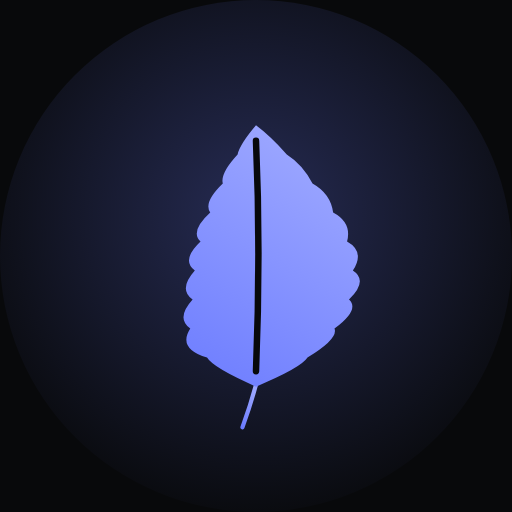
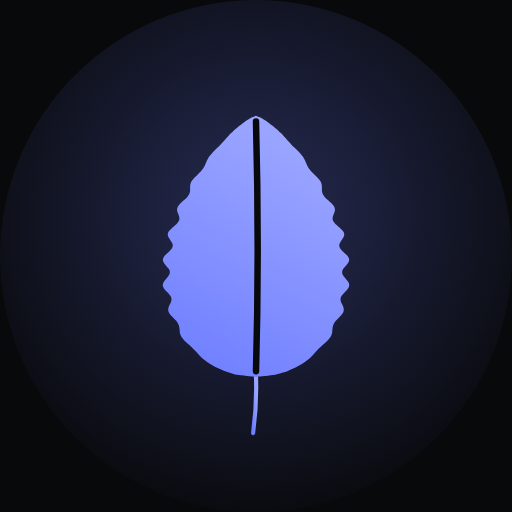
Новая форма листа: считается формулой, а не набрана руками
Прежний контур собирался из отрезков, и край выходил ступенчатым — в
мелком размере лист выглядел обгрызенным, а девять прожилок сливались
в тёмное пятно. Форма взята с натурного листа: широкая нижняя треть,
острый кончик, волнистый край, четыре пары дуговых жилок.

Контур теперь считает scripts/make-leaf.mjs: полуширина вдоль оси плюс
фестоны, гаснущие у кончика и у черешка, и уже по этим точкам гладкая
кривая. Форму правят числами — шире, острее, крупнее зубцы, — а не
перестановкой сотни координат.

Тот же лист подставлен в аватарку бота: знак снаружи обязан совпадать с
тем, что человек видит внутри.

Claude-Session: https://claude.ai/code/session_012dgtbmCBimMGEXv6Efga8R

diff --git a/src/App.tsx b/src/App.tsx
@@ -1862,17 +1862,23 @@ const LEAF_KINDS = [
     ],
   },
   // мята
+  // мята — форма с натурного листа: широкая нижняя треть, острый кончик
+  // и волнистый край. Контур считается формулой (scripts/make-leaf.mjs),
+  // а не набран руками: прежний собирался из отрезков и в мелком размере
+  // выглядел обгрызенным.
   {
-    outline: "M 0.00 -0.00 Q 4.67 -1.95 5.32 -3.00 Q 8.54 -4.95 8.11 -6.00 Q 10.76 -7.95 9.61 -9.00 Q 11.63 -10.95 10.01 -12.00 Q 11.29 -13.95 9.41 -15.00 Q 9.93 -16.95 7.97 -18.00 Q 7.71 -19.95 5.84 -21.00 Q 4.83 -22.95 3.18 -24.00 Q 1.42 -25.95 0.00 -27.00 Q -1.66 -25.05 -1.90 -24.00 Q -3.71 -22.05 -3.43 -21.00 Q -5.46 -19.05 -4.73 -18.00 Q -6.86 -16.05 -5.73 -15.00 Q -7.78 -13.05 -6.32 -12.00 Q -8.06 -10.05 -6.37 -9.00 Q -7.51 -7.05 -5.70 -6.00 Q -5.88 -4.05 -4.04 -3.00 Q -2.57 -1.05 0.00 -0.00 Z",
-    stem: "M 0 0 Q -0.6 2.0 -1.4 4.2",
+    outline: "M 0.00 -1.00 C 0.33 -1.04, 1.52 -1.15, 1.98 -1.23 C 2.45 -1.30, 2.55 -1.38, 2.79 -1.45 C 3.02 -1.52, 3.21 -1.60, 3.39 -1.68 C 3.58 -1.75, 3.75 -1.82, 3.91 -1.90 C 4.06 -1.97, 4.21 -2.05, 4.35 -2.13 C 4.49 -2.20, 4.62 -2.27, 4.74 -2.35 C 4.87 -2.43, 4.98 -2.50, 5.09 -2.58 C 5.20 -2.65, 5.29 -2.72, 5.39 -2.80 C 5.48 -2.88, 5.56 -2.95, 5.64 -3.02 C 5.72 -3.10, 5.80 -3.17, 5.87 -3.25 C 5.94 -3.33, 6.00 -3.40, 6.07 -3.47 C 6.14 -3.55, 6.21 -3.63, 6.28 -3.70 C 6.35 -3.78, 6.42 -3.85, 6.50 -3.93 C 6.57 -4.00, 6.65 -4.08, 6.73 -4.15 C 6.81 -4.23, 6.89 -4.30, 6.98 -4.38 C 7.06 -4.45, 7.14 -4.52, 7.22 -4.60 C 7.30 -4.67, 7.38 -4.75, 7.45 -4.82 C 7.52 -4.90, 7.58 -4.97, 7.64 -5.05 C 7.69 -5.13, 7.73 -5.20, 7.77 -5.27 C 7.80 -5.35, 7.83 -5.42, 7.85 -5.50 C 7.87 -5.58, 7.88 -5.65, 7.88 -5.72 C 7.89 -5.80, 7.89 -5.87, 7.90 -5.95 C 7.91 -6.02, 7.91 -6.10, 7.93 -6.18 C 7.95 -6.25, 7.97 -6.33, 8.00 -6.40 C 8.03 -6.48, 8.07 -6.55, 8.12 -6.63 C 8.17 -6.70, 8.23 -6.78, 8.30 -6.85 C 8.37 -6.93, 8.44 -7.00, 8.51 -7.08 C 8.59 -7.15, 8.67 -7.22, 8.73 -7.30 C 8.80 -7.38, 8.87 -7.45, 8.92 -7.53 C 8.97 -7.60, 9.01 -7.67, 9.04 -7.75 C 9.06 -7.83, 9.07 -7.90, 9.07 -7.98 C 9.07 -8.05, 9.05 -8.13, 9.03 -8.20 C 9.01 -8.27, 8.97 -8.35, 8.94 -8.43 C 8.90 -8.50, 8.86 -8.57, 8.83 -8.65 C 8.80 -8.72, 8.77 -8.80, 8.75 -8.88 C 8.74 -8.95, 8.73 -9.02, 8.74 -9.10 C 8.76 -9.18, 8.78 -9.25, 8.82 -9.33 C 8.86 -9.40, 8.92 -9.47, 8.98 -9.55 C 9.04 -9.62, 9.12 -9.70, 9.19 -9.78 C 9.26 -9.85, 9.33 -9.93, 9.40 -10.00 C 9.46 -10.07, 9.52 -10.15, 9.56 -10.22 C 9.60 -10.30, 9.63 -10.38, 9.63 -10.45 C 9.64 -10.52, 9.63 -10.60, 9.60 -10.68 C 9.58 -10.75, 9.53 -10.82, 9.48 -10.90 C 9.43 -10.97, 9.36 -11.05, 9.29 -11.13 C 9.23 -11.20, 9.16 -11.28, 9.10 -11.35 C 9.05 -11.43, 8.99 -11.50, 8.96 -11.57 C 8.92 -11.65, 8.90 -11.73, 8.90 -11.80 C 8.90 -11.88, 8.91 -11.95, 8.94 -12.03 C 8.97 -12.10, 9.03 -12.18, 9.08 -12.25 C 9.14 -12.32, 9.21 -12.40, 9.27 -12.47 C 9.33 -12.55, 9.41 -12.63, 9.46 -12.70 C 9.51 -12.78, 9.56 -12.85, 9.59 -12.92 C 9.62 -13.00, 9.63 -13.07, 9.62 -13.15 C 9.62 -13.23, 9.59 -13.30, 9.54 -13.38 C 9.50 -13.45, 9.44 -13.53, 9.37 -13.60 C 9.30 -13.67, 9.21 -13.75, 9.13 -13.82 C 9.05 -13.90, 8.96 -13.98, 8.89 -14.05 C 8.82 -14.13, 8.75 -14.20, 8.70 -14.27 C 8.66 -14.35, 8.62 -14.43, 8.61 -14.50 C 8.60 -14.57, 8.60 -14.65, 8.62 -14.72 C 8.64 -14.80, 8.68 -14.88, 8.73 -14.95 C 8.77 -15.03, 8.83 -15.10, 8.88 -15.18 C 8.93 -15.25, 8.98 -15.33, 9.02 -15.40 C 9.06 -15.47, 9.10 -15.55, 9.11 -15.62 C 9.12 -15.70, 9.12 -15.78, 9.10 -15.85 C 9.08 -15.93, 9.04 -16.00, 8.98 -16.08 C 8.93 -16.15, 8.85 -16.22, 8.78 -16.30 C 8.70 -16.37, 8.60 -16.45, 8.52 -16.52 C 8.43 -16.60, 8.34 -16.68, 8.26 -16.75 C 8.19 -16.82, 8.12 -16.90, 8.06 -16.98 C 8.01 -17.05, 7.97 -17.13, 7.94 -17.20 C 7.92 -17.27, 7.91 -17.35, 7.92 -17.42 C 7.92 -17.50, 7.94 -17.58, 7.97 -17.65 C 7.99 -17.73, 8.03 -17.80, 8.06 -17.88 C 8.08 -17.95, 8.12 -18.02, 8.13 -18.10 C 8.15 -18.17, 8.16 -18.25, 8.16 -18.33 C 8.15 -18.40, 8.13 -18.48, 8.10 -18.55 C 8.07 -18.63, 8.02 -18.70, 7.95 -18.77 C 7.89 -18.85, 7.82 -18.93, 7.74 -19.00 C 7.66 -19.07, 7.57 -19.15, 7.49 -19.23 C 7.40 -19.30, 7.32 -19.38, 7.24 -19.45 C 7.17 -19.52, 7.09 -19.60, 7.04 -19.68 C 6.98 -19.75, 6.93 -19.82, 6.90 -19.90 C 6.86 -19.97, 6.84 -20.05, 6.83 -20.13 C 6.81 -20.20, 6.81 -20.28, 6.81 -20.35 C 6.81 -20.43, 6.81 -20.50, 6.81 -20.57 C 6.81 -20.65, 6.81 -20.72, 6.80 -20.80 C 6.79 -20.87, 6.78 -20.95, 6.75 -21.03 C 6.73 -21.10, 6.69 -21.18, 6.64 -21.25 C 6.60 -21.32, 6.54 -21.40, 6.47 -21.47 C 6.41 -21.55, 6.33 -21.63, 6.26 -21.70 C 6.18 -21.78, 6.10 -21.85, 6.02 -21.93 C 5.94 -22.00, 5.86 -22.07, 5.79 -22.15 C 5.72 -22.22, 5.65 -22.30, 5.59 -22.38 C 5.53 -22.45, 5.47 -22.53, 5.43 -22.60 C 5.38 -22.68, 5.34 -22.75, 5.30 -22.82 C 5.26 -22.90, 5.23 -22.98, 5.20 -23.05 C 5.17 -23.13, 5.14 -23.20, 5.11 -23.27 C 5.07 -23.35, 5.04 -23.43, 5.00 -23.50 C 4.96 -23.57, 4.92 -23.65, 4.87 -23.73 C 4.82 -23.80, 4.76 -23.88, 4.70 -23.95 C 4.64 -24.02, 4.57 -24.10, 4.50 -24.17 C 4.43 -24.25, 4.35 -24.33, 4.28 -24.40 C 4.20 -24.48, 4.12 -24.55, 4.05 -24.63 C 3.97 -24.70, 3.89 -24.77, 3.82 -24.85 C 3.74 -24.92, 3.67 -25.00, 3.60 -25.08 C 3.53 -25.15, 3.46 -25.23, 3.39 -25.30 C 3.33 -25.38, 3.26 -25.45, 3.20 -25.52 C 3.13 -25.60, 3.07 -25.68, 3.00 -25.75 C 2.93 -25.82, 2.86 -25.90, 2.79 -25.98 C 2.72 -26.05, 2.65 -26.13, 2.57 -26.20 C 2.50 -26.27, 2.42 -26.35, 2.34 -26.43 C 2.25 -26.50, 2.17 -26.57, 2.08 -26.65 C 1.99 -26.72, 1.90 -26.80, 1.81 -26.88 C 1.72 -26.95, 1.62 -27.03, 1.52 -27.10 C 1.42 -27.18, 1.32 -27.25, 1.22 -27.32 C 1.11 -27.40, 1.01 -27.47, 0.89 -27.55 C 0.77 -27.62, 0.67 -27.70, 0.52 -27.78 C 0.37 -27.85, 0.09 -27.96, 0.00 -28.00 C -0.09 -28.04, 0.09 -28.04, 0.00 -28.00 C -0.09 -27.96, -0.37 -27.85, -0.52 -27.78 C -0.67 -27.70, -0.77 -27.62, -0.89 -27.55 C -1.01 -27.47, -1.11 -27.40, -1.22 -27.32 C -1.32 -27.25, -1.42 -27.18, -1.52 -27.10 C -1.62 -27.03, -1.72 -26.95, -1.81 -26.88 C -1.90 -26.80, -1.99 -26.72, -2.08 -26.65 C -2.17 -26.57, -2.25 -26.50, -2.34 -26.43 C -2.42 -26.35, -2.50 -26.27, -2.57 -26.20 C -2.65 -26.13, -2.72 -26.05, -2.79 -25.98 C -2.86 -25.90, -2.93 -25.82, -3.00 -25.75 C -3.07 -25.68, -3.13 -25.60, -3.20 -25.52 C -3.26 -25.45, -3.33 -25.38, -3.39 -25.30 C -3.46 -25.23, -3.53 -25.15, -3.60 -25.07 C -3.67 -25.00, -3.74 -24.92, -3.82 -24.85 C -3.89 -24.77, -3.97 -24.70, -4.05 -24.63 C -4.12 -24.55, -4.20 -24.48, -4.28 -24.40 C -4.35 -24.33, -4.43 -24.25, -4.50 -24.18 C -4.57 -24.10, -4.64 -24.02, -4.70 -23.95 C -4.76 -23.88, -4.82 -23.80, -4.87 -23.73 C -4.92 -23.65, -4.96 -23.57, -5.00 -23.50 C -5.04 -23.43, -5.07 -23.35, -5.11 -23.27 C -5.14 -23.20, -5.17 -23.13, -5.20 -23.05 C -5.23 -22.98, -5.26 -22.90, -5.30 -22.82 C -5.34 -22.75, -5.38 -22.68, -5.43 -22.60 C -5.47 -22.53, -5.53 -22.45, -5.59 -22.38 C -5.65 -22.30, -5.72 -22.22, -5.79 -22.15 C -5.86 -22.07, -5.94 -22.00, -6.02 -21.93 C -6.10 -21.85, -6.18 -21.77, -6.26 -21.70 C -6.33 -21.63, -6.41 -21.55, -6.47 -21.47 C -6.54 -21.40, -6.60 -21.32, -6.64 -21.25 C -6.69 -21.18, -6.73 -21.10, -6.75 -21.03 C -6.78 -20.95, -6.79 -20.88, -6.80 -20.80 C -6.81 -20.73, -6.81 -20.65, -6.81 -20.57 C -6.81 -20.50, -6.81 -20.43, -6.81 -20.35 C -6.81 -20.28, -6.81 -20.20, -6.83 -20.12 C -6.84 -20.05, -6.86 -19.97, -6.90 -19.90 C -6.93 -19.82, -6.98 -19.75, -7.04 -19.68 C -7.09 -19.60, -7.17 -19.52, -7.24 -19.45 C -7.32 -19.38, -7.40 -19.30, -7.49 -19.23 C -7.57 -19.15, -7.66 -19.08, -7.74 -19.00 C -7.82 -18.93, -7.89 -18.85, -7.95 -18.77 C -8.02 -18.70, -8.07 -18.63, -8.10 -18.55 C -8.13 -18.48, -8.15 -18.40, -8.16 -18.32 C -8.16 -18.25, -8.15 -18.17, -8.13 -18.10 C -8.12 -18.02, -8.08 -17.95, -8.06 -17.88 C -8.03 -17.80, -7.99 -17.73, -7.97 -17.65 C -7.94 -17.58, -7.92 -17.50, -7.92 -17.43 C -7.91 -17.35, -7.92 -17.27, -7.94 -17.20 C -7.97 -17.13, -8.01 -17.05, -8.06 -16.98 C -8.12 -16.90, -8.19 -16.82, -8.26 -16.75 C -8.34 -16.68, -8.43 -16.60, -8.52 -16.52 C -8.60 -16.45, -8.70 -16.37, -8.78 -16.30 C -8.85 -16.22, -8.93 -16.15, -8.98 -16.08 C -9.04 -16.00, -9.08 -15.93, -9.10 -15.85 C -9.12 -15.78, -9.12 -15.70, -9.11 -15.63 C -9.10 -15.55, -9.06 -15.48, -9.02 -15.40 C -8.98 -15.32, -8.93 -15.25, -8.88 -15.18 C -8.83 -15.10, -8.77 -15.02, -8.73 -14.95 C -8.68 -14.88, -8.64 -14.80, -8.62 -14.72 C -8.60 -14.65, -8.60 -14.57, -8.61 -14.50 C -8.62 -14.43, -8.66 -14.35, -8.70 -14.28 C -8.75 -14.20, -8.82 -14.13, -8.89 -14.05 C -8.96 -13.97, -9.05 -13.90, -9.13 -13.82 C -9.21 -13.75, -9.30 -13.67, -9.37 -13.60 C -9.44 -13.53, -9.50 -13.45, -9.54 -13.38 C -9.59 -13.30, -9.62 -13.22, -9.62 -13.15 C -9.63 -13.07, -9.62 -13.00, -9.59 -12.92 C -9.56 -12.85, -9.51 -12.78, -9.46 -12.70 C -9.41 -12.63, -9.33 -12.55, -9.27 -12.48 C -9.21 -12.40, -9.14 -12.32, -9.08 -12.25 C -9.03 -12.17, -8.97 -12.10, -8.94 -12.03 C -8.91 -11.95, -8.90 -11.88, -8.90 -11.80 C -8.90 -11.73, -8.92 -11.65, -8.96 -11.58 C -8.99 -11.50, -9.05 -11.43, -9.10 -11.35 C -9.16 -11.27, -9.23 -11.20, -9.29 -11.13 C -9.36 -11.05, -9.43 -10.98, -9.48 -10.90 C -9.53 -10.82, -9.58 -10.75, -9.60 -10.67 C -9.63 -10.60, -9.64 -10.52, -9.63 -10.45 C -9.63 -10.38, -9.60 -10.30, -9.56 -10.22 C -9.52 -10.15, -9.46 -10.08, -9.40 -10.00 C -9.33 -9.93, -9.26 -9.85, -9.19 -9.77 C -9.12 -9.70, -9.04 -9.62, -8.98 -9.55 C -8.92 -9.47, -8.86 -9.40, -8.82 -9.33 C -8.78 -9.25, -8.76 -9.18, -8.74 -9.10 C -8.73 -9.03, -8.74 -8.95, -8.75 -8.88 C -8.77 -8.80, -8.80 -8.72, -8.83 -8.65 C -8.86 -8.57, -8.90 -8.50, -8.94 -8.43 C -8.97 -8.35, -9.01 -8.28, -9.03 -8.20 C -9.05 -8.13, -9.07 -8.05, -9.07 -7.97 C -9.07 -7.90, -9.06 -7.83, -9.04 -7.75 C -9.01 -7.67, -8.97 -7.60, -8.92 -7.53 C -8.87 -7.45, -8.80 -7.37, -8.73 -7.30 C -8.67 -7.22, -8.59 -7.15, -8.51 -7.07 C -8.44 -7.00, -8.37 -6.93, -8.30 -6.85 C -8.23 -6.78, -8.17 -6.70, -8.12 -6.63 C -8.07 -6.55, -8.03 -6.47, -8.00 -6.40 C -7.97 -6.32, -7.95 -6.25, -7.93 -6.17 C -7.91 -6.10, -7.91 -6.03, -7.90 -5.95 C -7.89 -5.88, -7.89 -5.80, -7.88 -5.73 C -7.88 -5.65, -7.87 -5.57, -7.85 -5.50 C -7.83 -5.42, -7.80 -5.35, -7.77 -5.27 C -7.73 -5.20, -7.69 -5.13, -7.64 -5.05 C -7.58 -4.98, -7.52 -4.90, -7.45 -4.83 C -7.38 -4.75, -7.30 -4.67, -7.22 -4.60 C -7.14 -4.52, -7.06 -4.45, -6.98 -4.38 C -6.89 -4.30, -6.81 -4.23, -6.73 -4.15 C -6.65 -4.08, -6.57 -4.00, -6.50 -3.92 C -6.42 -3.85, -6.35 -3.77, -6.28 -3.70 C -6.21 -3.62, -6.14 -3.55, -6.07 -3.48 C -6.00 -3.40, -5.94 -3.33, -5.87 -3.25 C -5.80 -3.18, -5.72 -3.10, -5.64 -3.02 C -5.56 -2.95, -5.48 -2.87, -5.39 -2.80 C -5.29 -2.73, -5.20 -2.65, -5.09 -2.58 C -4.98 -2.50, -4.87 -2.43, -4.74 -2.35 C -4.62 -2.28, -4.49 -2.20, -4.35 -2.12 C -4.21 -2.05, -4.06 -1.97, -3.91 -1.90 C -3.75 -1.83, -3.58 -1.75, -3.39 -1.68 C -3.21 -1.60, -3.02 -1.53, -2.79 -1.45 C -2.55 -1.38, -2.45 -1.30, -1.98 -1.22 C -1.52 -1.15, -0.33 -1.04, 0.00 -1.00 Z",
+    stem: "M 0 -1 Q 0.1 1.8 -0.3 4.8",
     veins: [
-      "M 0.1 -0.5 Q 1.9 -13.5 0.5 -24.8",
-      "M 1.3 -6.5 Q 4.1 -6.9 7.6 -10.3",
-      "M 1.3 -6.5 Q -1.2 -6.9 -4.1 -10.3",
-      "M 1.8 -12.1 Q 4.2 -12.5 7.0 -15.9",
-      "M 1.8 -12.1 Q -0.5 -12.5 -3.4 -15.9",
-      "M 1.6 -17.8 Q 2.8 -18.2 4.2 -21.6",
-      "M 1.6 -17.8 Q 0.0 -18.2 -2.0 -21.6",
+      "M 0 -1.6 Q 0.35 -14 0 -27.4",
+      "M 0.20 -5.05 Q 3.12 -5.86 6.94 -10.40",
+      "M -0.20 -5.05 Q -3.12 -5.86 -6.94 -10.40",
+      "M 0.20 -9.91 Q 2.91 -10.72 6.46 -15.23",
+      "M -0.20 -9.91 Q -2.91 -10.72 -6.46 -15.23",
+      "M 0.20 -15.04 Q 2.21 -15.85 4.90 -20.34",
+      "M -0.20 -15.04 Q -2.21 -15.85 -4.90 -20.34",
+      "M 0.20 -20.17 Q 1.02 -20.98 2.27 -25.44",
+      "M -0.20 -20.17 Q -1.02 -20.98 -2.27 -25.44",
     ],
   },
 ];
@@ -14609,7 +14615,7 @@ function CoinIcon({ size = 14, dim = false, tone }) {
 // Рамка у каждой породы своя: у клёна лист широкий, у мяты вдвое уже.
 // Общая рамка оставляла бы мяте пустые поля по бокам, и рядом с текстом
 // она выглядела бы мельче остальных значков того же размера.
-const LEAF_ICON_BOX = ["-15 -32 30 38", "-11 -30 22 35", "-9 -29 21 34"];
+const LEAF_ICON_BOX = ["-15 -32 30 38", "-11 -30 22 35", "-10.6 -29 21.2 35"];
 function LeafIcon({ size = 14, color = T.electric, kind = 0 }) {
   const idx = kind % LEAF_KINDS.length;
   const leaf = LEAF_KINDS[idx];
